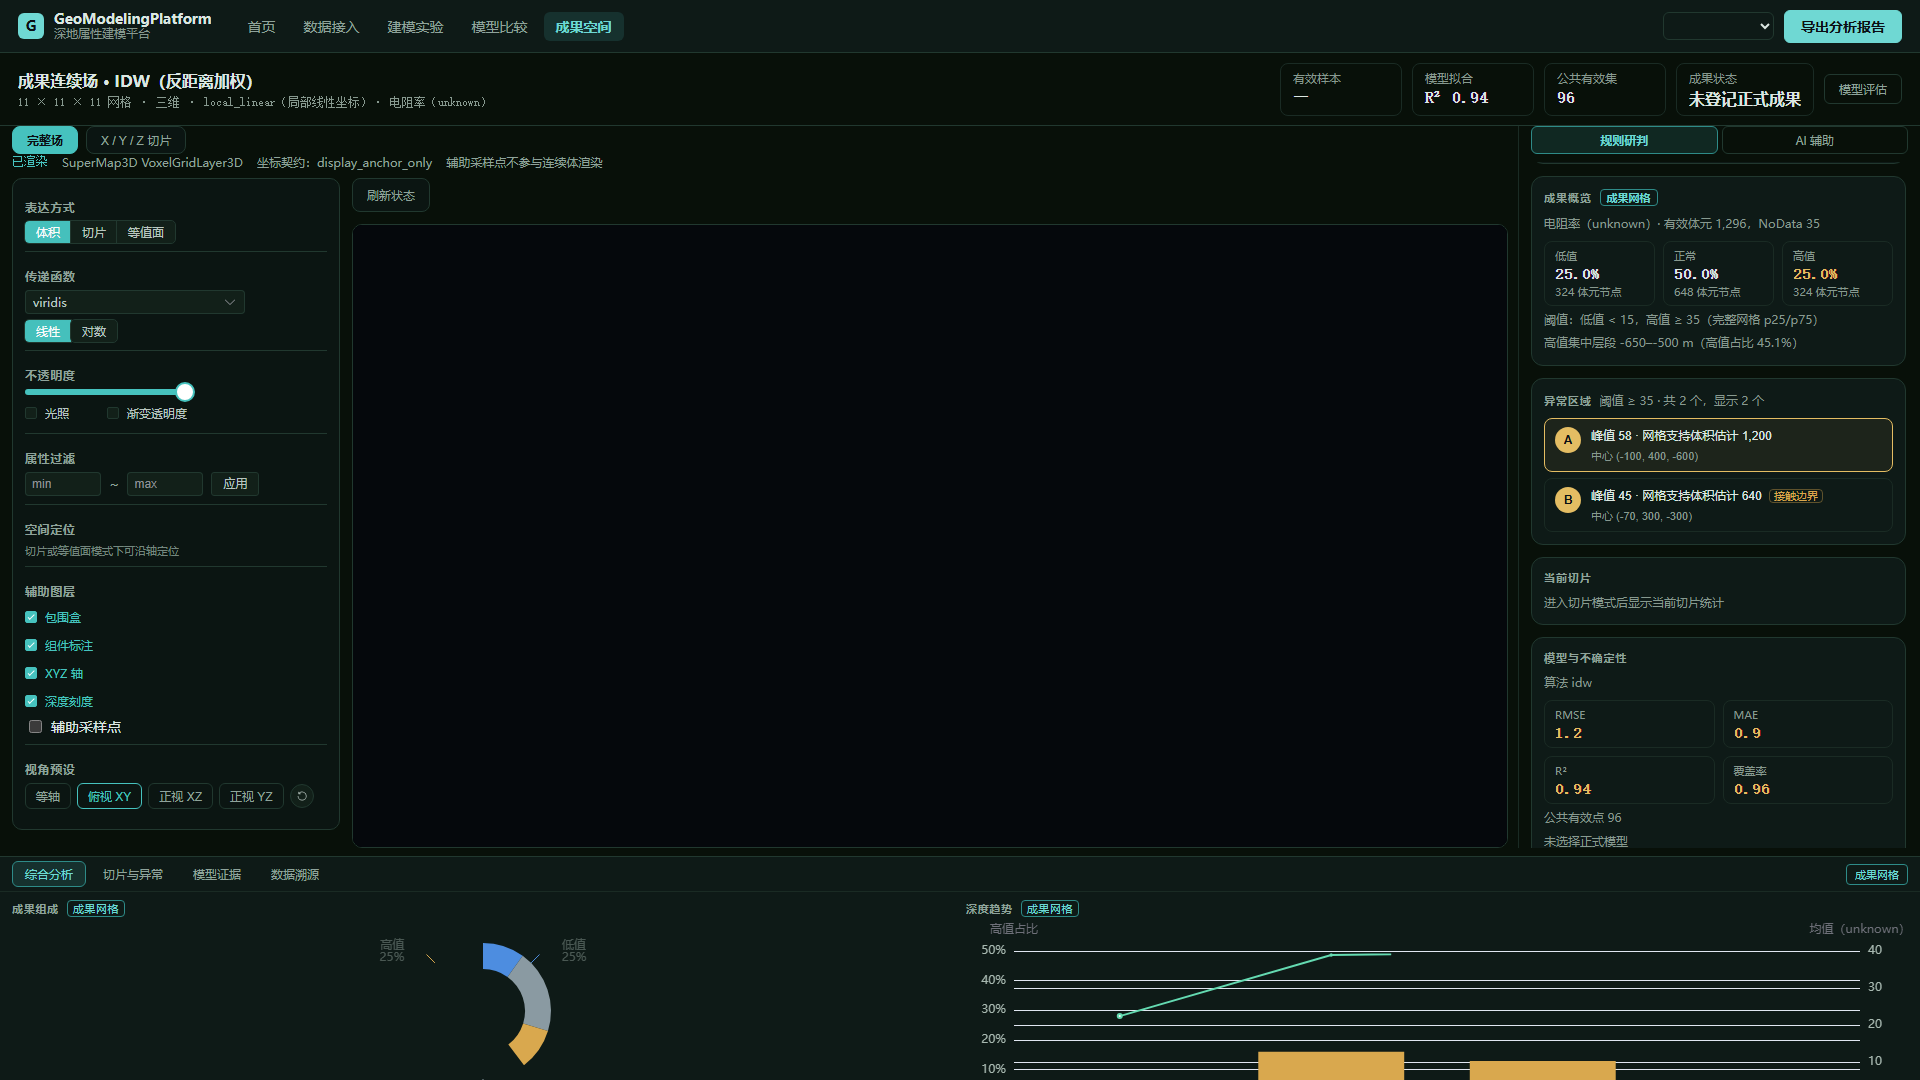
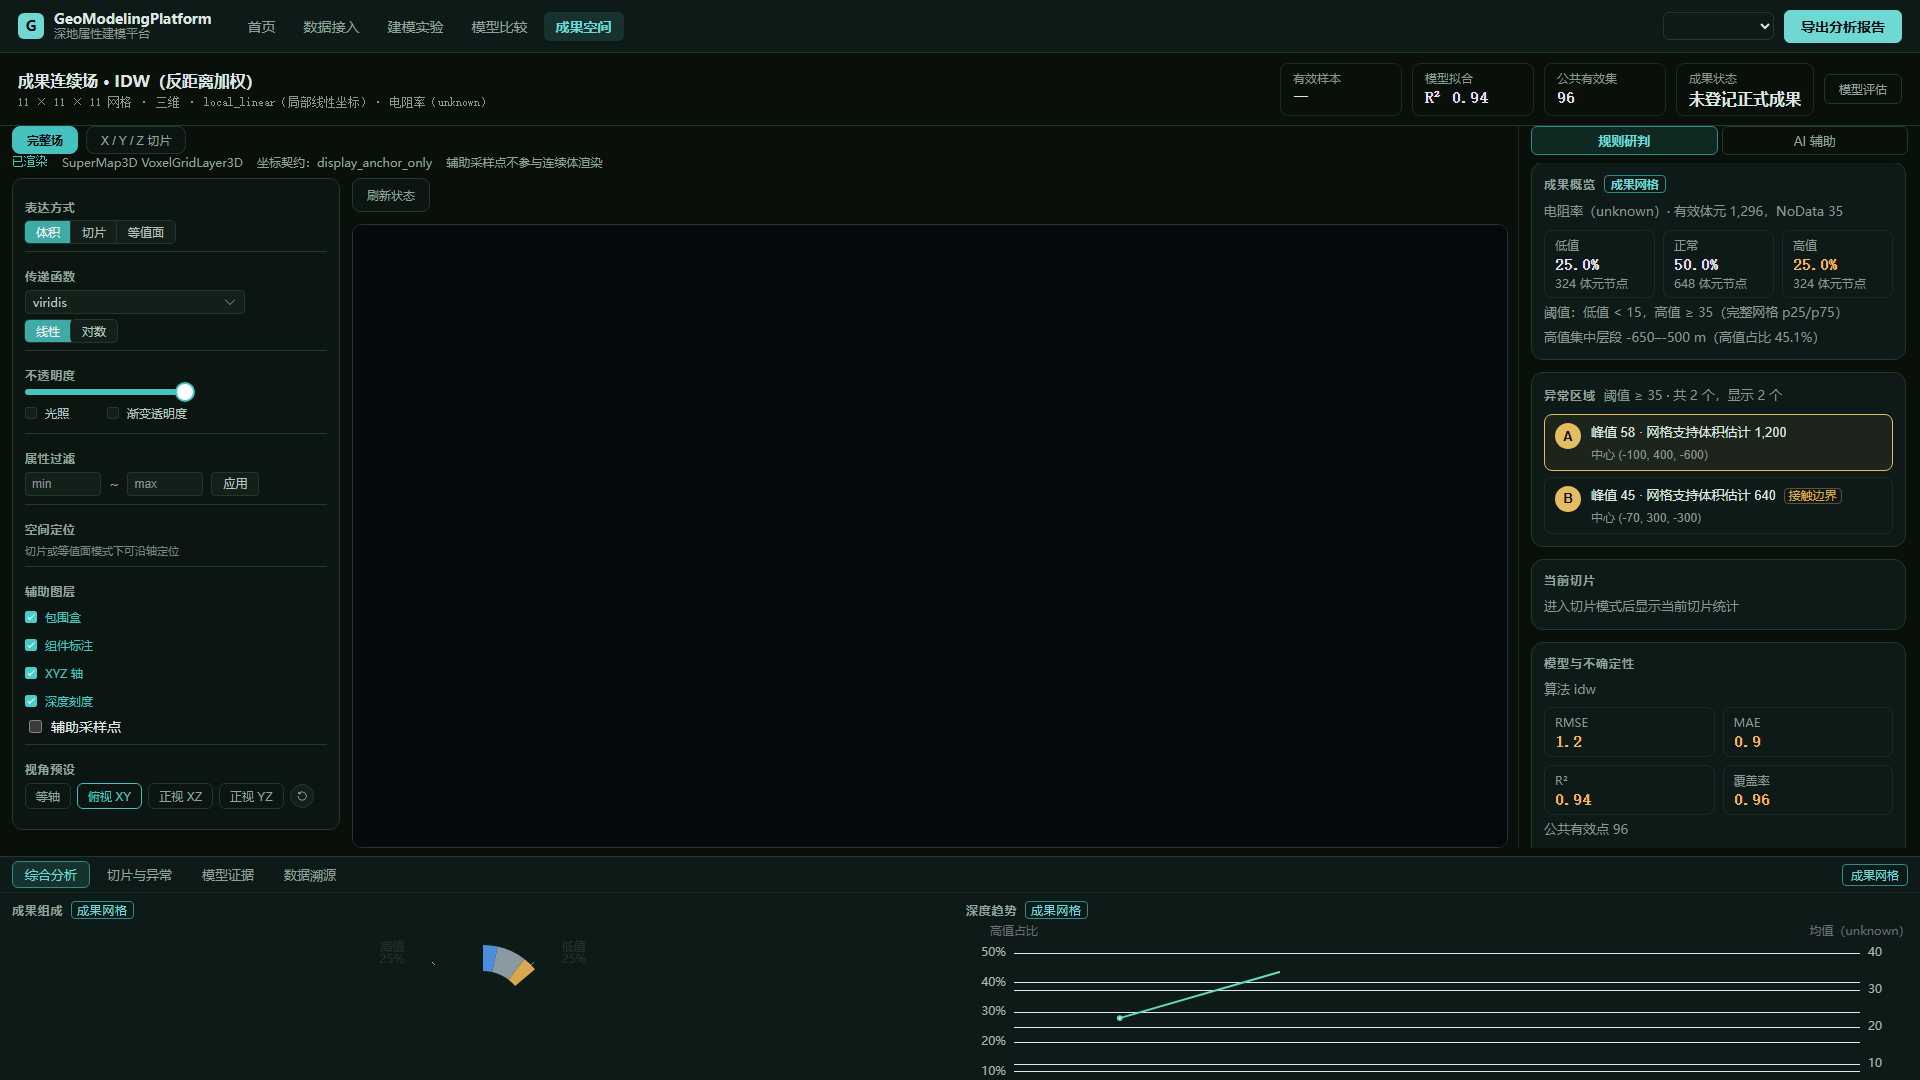
fix: strengthen v6 result workbench visual framing

diff --git a/web/public/supermap-volume-frame/app.js b/web/public/supermap-volume-frame/app.js
@@ -367,7 +367,7 @@ function lookAtVolume() {
   const target = SuperMap3D.Cartesian3.fromDegrees(centerLon, centerLat, centerZ)
   scene.camera.lookAt(
     target,
-    new SuperMap3D.HeadingPitchRange(0.6, -0.9, span * CAMERA_RANGE_ISOMETRIC),
+    new SuperMap3D.HeadingPitchRange(1.25, -0.72, span * CAMERA_RANGE_ISOMETRIC),
   )
 }
 
@@ -631,10 +631,10 @@ function setSceneAidsVisible(aids) {
 }
 
 // 四种确定性相机预设：均以体盒中心为锚，绝不随机取景。
-// V6 取景常数（集中命名）：等轴 span×1.65、正视/俯视 span×1.55 起步；
-// 最终值只依据真实 GPU 截图调整，目标是体场占中央场景高度 58%–72%，
-// 不得缩放顶点或改 display transform 伪造大小。
-const CAMERA_RANGE_ISOMETRIC = 2.62
+// V6 取景常数（集中命名）：等轴视角优先展开本案例较长的 Y/Z 方向；
+// 最终值只依据真实 GPU 截图调整，目标是体场高度约 58%–76%，且宽度
+// 不低于场景 24%。不得缩放顶点或改 display transform 伪造大小。
+const CAMERA_RANGE_ISOMETRIC = 2.12
 const CAMERA_RANGE_ORTHO = 2.3
 
 function applyCameraPreset(preset) {
@@ -646,8 +646,8 @@ function applyCameraPreset(preset) {
   let pitch
   let range = span * CAMERA_RANGE_ISOMETRIC
   if (preset === 'isometric') {
-    heading = 0.6
-    pitch = -0.9
+    heading = 1.25
+    pitch = -0.72
   } else if (preset === 'top-xy') {
     heading = 0
     pitch = -Math.PI / 2 + EPS

diff --git a/web/src/components/results/__tests__/ResultWorkbench.spec.ts b/web/src/components/results/__tests__/ResultWorkbench.spec.ts
@@ -497,6 +497,30 @@ describe('成果级分析接入', () => {
     expect(panel.props('components')[1].component_id).toBe(2)
   })
 
+  it('研判保留全部连通区，但三维场只标注前三个主导组件以避免标签遮挡', async () => {
+    const base = RESULT_ANALYSIS_MOCK_3D.components_preview.rows[0]
+    const rows = Array.from({ length: 8 }, (_, index) => ({
+      ...base,
+      rank: index + 1,
+      label: String.fromCharCode(65 + index),
+      component_id: index + 1,
+    }))
+    vi.mocked(client.fetchResultAnalysisSummary).mockResolvedValue({
+      ...RESULT_ANALYSIS_MOCK_3D,
+      components_preview: {
+        ...RESULT_ANALYSIS_MOCK_3D.components_preview,
+        total: 8,
+        returned: 8,
+        rows,
+      },
+    })
+
+    const { wrapper } = await mountWorkbench(makeMetadata('3d'))
+    const panel = wrapper.findComponent({ name: 'NativeVolumePanel' })
+    expect(panel.props('components').map((row: { component_id: number }) => row.component_id)).toEqual([1, 2, 3])
+    expect(wrapper.find('[data-test="component-8"]').exists()).toBe(true)
+  })
+
   it('成果分析失败显示类型化错误，不残留组件也不回退数据集级统计', async () => {
     vi.mocked(client.fetchResultAnalysisSummary).mockRejectedValue(
       new client.ApiError('RESULT_ANALYSIS_NO_VALID_CELLS', '网格无有效体元', 422),

diff --git a/web/src/views/ResultWorkbenchView.vue b/web/src/views/ResultWorkbenchView.vue
@@ -73,6 +73,11 @@ const resultAnalysisLoading = ref(false)
 const currentSlice = ref<SliceAnalysisResponse | null>(null)
 const focusedComponentId = ref<number | null>(null)
 const volumePanelRef = ref<InstanceType<typeof NativeVolumePanel> | null>(null)
+// 三维舞台只承担主导异常的空间定位，完整连通区清单仍由右侧研判区展示。
+// 过多标签会遮挡体场本体；按后端既有排序取前三项，不改分析结果本身。
+const sceneComponents = computed(
+  () => resultAnalysis.value?.components_preview.rows.slice(0, 3) ?? null,
+)
 
 // v0.9.0 V6：顶栏/摘要条上下文（案例、案例列表、正式成果状态、导出状态）
 const caseRecord = ref<PlatformCaseRecord | null>(null)
@@ -518,7 +523,7 @@ watch(resultId, (next, prev) => {
             :api="volumeApi"
             :aux-points="gridSamplePoints"
             :slice-request="sliceRequest"
-            :components="resultAnalysis?.components_preview.rows ?? null"
+            :components="sceneComponents"
             :focused-component-id="focusedComponentId"
             @slice-change="onSliceChange"
             @slice-request-failed="onSliceRequestFailed"

diff --git a/web/src/components/results/ResultAnalysisWorkbench.vue b/web/src/components/results/ResultAnalysisWorkbench.vue
@@ -168,6 +168,11 @@ function onFocusEvidence(ref: string) {
 
 <style scoped>
 .result-workbench {
+  /* 成果页是演示主工作台，局部提高最小字号，不影响上传/实验等高密度表单。 */
+  --s1-font-xs: 12px;
+  --s1-font-sm: 13px;
+  --s1-font-md: 14px;
+  --s1-font-lg: 16px;
   display: flex;
   flex-direction: column;
   gap: var(--s1-space-2);

diff --git a/docs/status/current-status.md b/docs/status/current-status.md
@@ -18,11 +18,11 @@
   - 案例工作台：四业务阶段（数据概览/建模实验/成果分析/证据与报告）+ 每状态唯一主动作；数据接入改为同屏工作台（四阶段 + 文件预览 + 空间预览 + 映射诊断 + 质量组成）；调参实验室四区布局 + `RunPipeline` 真实流水线（粗进度恒标「阶段估计」）；模型比较证据面（分轴指标图 + 参数差异表 + fail-closed 不兼容态）。
   - 成果与分析融合：三维主视图 + 发现 + 混合证据坞（质量/分布/模型指标/趋势/残差，懒挂载 + dispose）+ 评估摘要 + 溯源抽屉；**图表—三维双向联动**（趋势点击驱动切片、切片反向切证据标签、渲染器不支持的能力显示类型化通知、身份切换旧选择立即失效）；`AnalysisCenterView`/`ProfessionalAnalysisView` 深链保持可用。
   - 成果级分析与 AI：正式成果只读摘要以 `result_id + grid_sha256` 绑定完整网格统计、p25/p75 组成、深度层段、连通区、模型证据与确定性发现；右栏规则研判始终可用，DeepSeek 为服务端可选增强并带 evidence hash/prompt 版本/证据引用，未配置时类型化 `unavailable`。组件、四相机、Volume/Slice/Contour 与权威切片经 SuperMap3D v2 协议联动；桌面 1920×1080 页面级横纵溢出均 ≤1 px。
-  - V6 成果工作台：成果页重构为一屏工作台——成果专用顶栏（品牌/五段导航/案例选择/导出分析报告，全局头在此页隐藏）、成果摘要条（算法/网格/坐标/变量 + 有效样本/R²/公共有效集/正式成果状态，无指纹长串与完整哈希）、三栏主舞台（显示工具 328px / 真实体场景 / 分析研判 390px）与四标签证据窗（综合分析/切片与异常/模型证据/数据溯源，七类证据归组不丢失，资产身份与导出迁入数据溯源）；光照与渐变透明度在后端 profile 与前端降级路径均默认关闭、包围盒默认开启；XYZ 坐标架原点外移出包围盒、轴长为对应跨度 1.25×（合同 1.2–1.3）、深度刻度独立成尺；答辩模式入口/路由/组件/store/专用测试完整删除，旧 /presentation 深链经 catch-all 回首页；相机取景只调距离不改数据几何。
+  - V6 成果工作台：成果页重构为一屏工作台——成果专用顶栏（品牌/五段导航/案例选择/导出分析报告，全局头在此页隐藏）、成果摘要条（算法/网格/坐标/变量 + 有效样本/R²/公共有效集/正式成果状态，无指纹长串与完整哈希）、三栏主舞台（显示工具 328px / 真实体场景 / 分析研判 390px）与四标签证据窗（综合分析/切片与异常/模型证据/数据溯源，七类证据归组不丢失，资产身份与导出迁入数据溯源）；光照与渐变透明度在后端 profile 与前端降级路径均默认关闭、包围盒默认开启；XYZ 坐标架原点外移出包围盒、轴长为对应跨度 1.25×（合同 1.2–1.3）、深度刻度独立成尺；三维只标注后端排序前三的主导组件，完整组件仍保留在研判区；答辩模式入口/路由/组件/store/专用测试完整删除，旧 /presentation 深链经 catch-all 回首页；相机只调整确定性视角与距离，不改数据几何。
   - 响应式/无障碍：四档视口零横向溢出像素级门（手机档案例轨横向紧凑选择条）、单一 main 地标、可访问名称、唯一主动作合同。
   - 边界：数据哈希/模型身份/单位/局部坐标与 `display_anchor_only` 语义不变；无新地质结论、无假图、无点云回退；`local_data` 与官方基线合同不变。
   - 集成回归（2026-08-11 fresh 运行）：后端非 `local_data` `1895 passed, 32 deselected`；前端 vitest `501 passed`、type-check/build 通过；Mock E2E `41 passed`；成果级真实 SDK live `1 passed`。证据见 `docs/evidence/v0.9.0-result-analysis-live/`；既有 IDW RuntimeWarning 与 jsdom/ECharts 测试警告仍存在，但无失败。
-  - V6 验收回归（2026-08-11 fresh 运行，最终 HEAD）：后端非 `local_data` `1895 passed`；前端 vitest `497 passed`（答辩模式专用测试随功能删除）；Mock E2E `39 passed`；真实 SDK live `2 passed`（1920×1080 + 1440×900：一屏无滚动/溢出、三栏 328/1494/390、默认光照/渐变关闭、体场高度占比 0.6958、坐标架原点在包围盒外 1.25×、四证据标签与规则/AI 双页可切、零控制台/页面/未解释网络失败）。证据见 `docs/evidence/v0.9.0-v6-result-workbench/`。
+  - V6 验收回归（2026-08-11 fresh 运行）：后端非 `local_data` `1895 passed, 32 deselected`；前端 vitest `498 passed`、type-check/build 通过；Mock E2E 既有门未改；真实 SDK live `2 passed`（1920×1080 + 1440×900：一屏无滚动/溢出、三栏 328/1494/390、默认光照/渐变关闭、关闭辅助层后体场本体高 0.7411/宽 0.2716、三维 3 个主导标注、坐标架原点在包围盒外 1.25×、四证据标签与规则/AI 双页可切、零未解释控制台/页面/网络失败）。证据见 `docs/evidence/v0.9.0-v6-result-workbench/`。
   - 当前边界：真实 GPU 已验证组件列表→三维聚焦，三维标注真实鼠标 pick 命中率尚无独立 GPU 门；DeepSeek 真实外部成功调用未在本机配置密钥，本轮只验证结构化假服务单测与未配置降级；局部坐标/显示锚点、非真实地理配准及 `manual_required` 不变。
 
 - **v0.8.1 瓦斯预置案例与三案例数据内置化 · 第三批（已合并 main）**：

diff --git a/docs/evidence/v0.9.0-v6-result-workbench/verification.md b/docs/evidence/v0.9.0-v6-result-workbench/verification.md
@@ -1,18 +1,18 @@
 # V6 成果工作台真实浏览器验收
 
 日期：2026-08-11
-运行环境：本机 RTX GPU、真实 FastAPI（隔离数据目录 `D:/temp/v6-acceptance-data`）、真实 SuperMap3D SDK（`web/public/SuperMap3D-2026`）、官方电阻率普通克里金成果。
+运行环境：本机 RTX GPU、真实 FastAPI（隔离数据目录 `D:/temp/v6-visual-green3`）、真实 SuperMap3D SDK（`web/public/SuperMap3D-2026`）、官方电阻率普通克里金成果。
 运行命令：
 
 ```powershell
 cd web
-$env:GEOMODELING_DATA_DIR = "D:/temp/v6-acceptance-data"
+$env:GEOMODELING_DATA_DIR = "D:/temp/v6-visual-green3"
 $env:GEOMODELING_LIVE_PORT = "5279"
 $env:PYTHONPATH = "<repo>/src"
 npx playwright test -c playwright.live.config.ts result-analysis-live.spec.ts
 ```
 
-证据目录：`run-20260811T090818Z/`（功能代码 HEAD 见文末提交链；相机常数 2.62/2.3 为该次运行的真实取值）。
+最新证据目录：`run-20260811T120957Z/`。该轮先关闭组件标注、XYZ 轴和深度刻度，再测量真实体场像素包围盒，避免辅助层造成视觉假绿。
 
 ## 验收结果（真实 SDK，2 passed）
 
@@ -22,35 +22,36 @@ npx playwright test -c playwright.live.config.ts result-analysis-live.spec.ts
 | 三栏宽度（工具/场景/研判） | 328 / 1494 / 390 px | 328 / ~750 / 390 px（门限 ≥300/520/350） |
 | 证据窗首屏完整可见 | 是（底边 ≤ 视口） | 是 |
 | 默认渲染状态 | lighting=false、gradientOpacity=false、boundingBox=true（复选框与 INIT 双重断言） | 同左 |
-| 体场非背景像素包围盒高度占比 | **0.6958**（合同 0.58–0.72） | 同合同（1920 门内断言） |
+| 体场本体像素包围盒 | 高 **0.7411**、宽 **0.2716**（合同高 0.58–0.76、宽 ≥0.24） | 真实 SDK 渲染可见 |
 | 坐标架几何 | originOutsideBounds=true，轴长比 x/y/z=1.25（合同 1.2–1.3） | 同左 |
 | 四证据标签切换 | 综合分析/切片与异常/模型证据/数据溯源全部非空可切 | 是 |
 | 规则研判/AI 辅助 | 双标签可切；DeepSeek 未配置显示 DEEPSEEK_NOT_CONFIGURED 类型化状态 | — |
-| 组件聚焦/四视角/三模式互斥 | 通过（FOCUS_ANNOTATION、cameraPreset 回执、mode 状态机） | — |
+| 组件聚焦/四视角/三模式互斥 | 通过；三维仅标注前三个主导异常，研判区保留完整 8 项 | — |
 | 未解释网络失败 / console error / pageerror | 0 / 0 / 0（唯一 404 为 AI latest 无记录的预期白名单） | 0 |
 
 ## 数据与成果身份
 
-- result_id：`c3f9468a-c571-4062-90cb-7fd4993ce5c4`（官方普通克里金，预置 seed）
+- result_id：`de5ff816-e97d-4b98-be10-55f3bfa438e1`（本轮隔离运行生成的官方普通克里金预置成果）
 - grid_sha256：`079c410f071b8698…`（完整值见 `v6-workbench-1920x1080.json`）
 - 分析版本：`result_analysis.v1`；坐标：局部线性 `display_anchor_only`（页面如实显示）
 
 ## 截图
 
-- [1920×1080 一屏](run-20260811T090818Z/v6-workbench-1920x1080.png)
-- [1440×900 一屏](run-20260811T090818Z/v6-workbench-1440x900.png)
+- [1920×1080 一屏](run-20260811T120957Z/v6-workbench-1920x1080.png)
+- [1440×900 一屏](run-20260811T120957Z/v6-workbench-1440x900.png)
+- [机器验收记录](run-20260811T120957Z/v6-workbench-1920x1080.json)
 
 ## 人工视觉复核结论（对照 V6 预览稿）
 
 - 层级：顶栏/摘要条/三栏舞台/证据窗四层与 V6 同构；真实体渲染替代静态示意体。
-- 字号：工具组标签 12px、正文/控件 12–14px、摘要指标 16px，无小于 12px 正文。
+- 字号：成果工作台局部将 xs/sm/md/lg 提升为 12/13/14/16px，不改变其他高密度业务页。
 - 对齐：控件按组网格排布；证据图表横向分列；无双重外壳、无大块无意义留白。
 - 遮挡：无文字遮挡/裁切；右栏与证据窗内容在内部滚动，页面不滚动。
-- 体场占比 0.6958 落在合同区间；XYZ 轴位于包围盒外且清晰可读，深度刻度独立成尺。
+- 体场本体高度 0.7411、宽度 0.2716；XYZ 轴位于包围盒外且轴长均为体盒对应跨度 1.25 倍，深度刻度独立成尺。
 
 ## 已知边界
 
 - 坐标架/刻度为显示辅助，非真实地理配准；局部线性坐标口径不变。
-- 组件标注 >6 个时颜色循环复用；标注引线高度为取景跨度 4%（非物理语义）。
+- 三维舞台仅展示后端排序前三的主导组件；全部组件仍在规则研判区可查询和定位。标注只表达定位，不具有额外物理语义。
 - 手机/平板档位的成果页沿既有响应式合同（本批 live 门覆盖 1920×1080 与 1440×900 两档桌面验收）。
 - AI 未配置路径已验；真实 DeepSeek 调用未验（无密钥，合同与降级由后端/前端单测覆盖）。
